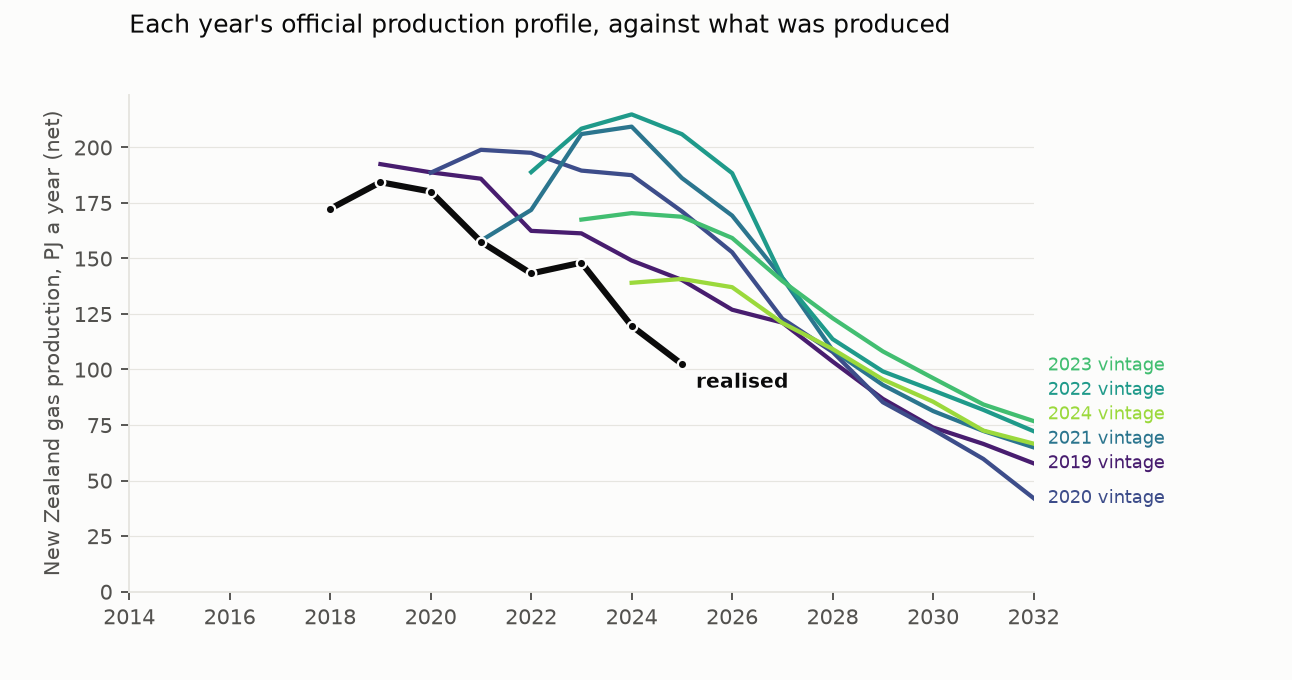
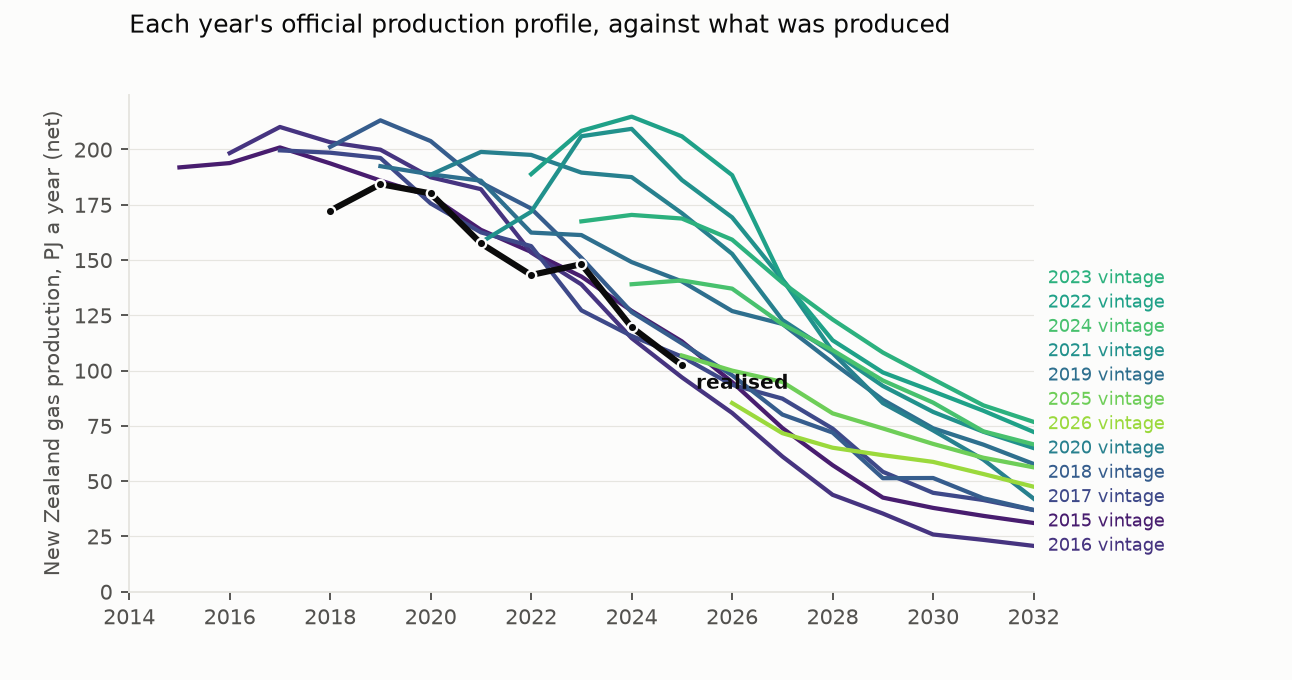
research-lab: gas figures regenerated on all vintages (F2 title corrected: error peaks at 1-2 years); REVIEW_QUEUE.md checkpoint at usage limit
Claude-Session: https://claude.ai/code/session_01F4XU94RLz4kFVSs5LcJjTK

diff --git a/research-lab/runs/energy-nz-gas-production-forecast-calibration/code/figures.py b/research-lab/runs/energy-nz-gas-production-forecast-calibration/code/figures.py
@@ -97,8 +97,8 @@ def main():
     ax.set_ylim(-22, None)
     ax.annotate("preregistered bars: +5% at 1 year, +15% at 3 years", (6.2, 2), fontsize=7.2, color=INK2, ha="right")
     ax.set_xlabel("years ahead of the vintage"); ax.set_ylabel("forecast over realised, %")
-    ax.grid(axis="y", color=GRID, lw=0.5); ax.legend(frameon=False, fontsize=8, loc="upper left", bbox_to_anchor=(0.0, 1.0))
-    fig.suptitle("Gas production forecasts exceed what follows, and more so further out", x=0.1, ha="left",
+    ax.grid(axis="y", color=GRID, lw=0.5); ax.legend(frameon=False, fontsize=8, loc="upper right", bbox_to_anchor=(1.0, 1.0))
+    fig.suptitle("Gas production forecasts exceed what follows, most at one to two years ahead", x=0.1, ha="left",
                  fontsize=10.5, color=INK)
     fig.savefig(F / "F2_error_by_horizon.png", dpi=170); plt.close(fig)
     caption("F2_error_by_horizon", """Blue: the median over (vintage, field) pairs of the forecast-to-realised ratio on

diff --git a/research-lab/REVIEW_QUEUE.md b/research-lab/REVIEW_QUEUE.md
@@ -10,10 +10,10 @@ highest exposure first, so that if the limit is hit again the most consequential
 | study | draft commit | verdicts in the draft | review status |
 |---|---|---|---|
 | `energy-outage-major-event-day-ratchet` | 2b5cb6b | H1 Inconclusive, H2 Refuted, H3 Refuted | **published** 2026-10-21 (Refuted on H3; H2 only with the 2015 baseline; H1 Inconclusive) |
-| `ancestral-pacific-rainfall-gauge-circularity` | 0a73d80 | H1 Supported, H2 Refuted | **in review** (wave 2) |
-| `frontier-eaa-accessibility-natural-experiment` | 0c44d7a | H1 Supported, H2 Inconclusive, H3 not testable | not started |
-| `energy-nz-gas-production-forecast-calibration` | b53e197 | H1 Supported, H2 Inconclusive, H3 Supported | **in review** (wave 1) |
-| `movement-nz-ev-policy-discount-vs-ruc` | 60012cc | H1 Inconclusive, H2 Inconclusive | not started |
+| `ancestral-pacific-rainfall-gauge-circularity` | 0a73d80 | H1 Supported, H2 Refuted | **fix-first review returned; fixes not started** — drop 12 no-estimate stations (verdicts hold), recompute shares on reporting months, add missing outputs, flag Koumac |
+| `frontier-eaa-accessibility-natural-experiment` | 0c44d7a | H1 Supported, H2 Inconclusive, H3 not testable | **in review** (may have been cut off by the usage limit; resume the same reviewer) |
+| `energy-nz-gas-production-forecast-calibration` | b53e197 | H1 Supported, H2 Inconclusive, H3 Supported | **fix-first review returned; revision half done** — all 13 vintages fetched, parser and analysis fixed and re-run (b63d203 onward); plan §5 validations now pass. Re-run gives H1 Supported only narrowly (m(3) clears +15% by 0.1 pt; fragile across sensitivities; optimism peaks at 1–2 yrs and does not grow), H2 Inconclusive, H3 Supported; 2P revised down 107–233 PJ every year since 2022. **report.md still the old draft — do not publish.** Next: rewrite report, D2, HTML, confirmation pass to the same reviewer. |
+| `movement-nz-ev-policy-discount-vs-ruc` | 60012cc | H1 Inconclusive, H2 Inconclusive | **in review** (may have been cut off by the usage limit; resume the same reviewer) |
 | `auckland-nz-jade-water-value-calibration` | 96c8a7c | H1 Supported, H2 Refuted | **published** 2026-10-21 (H1 Supported; H2 Refuted but unreachable; reinterpreted) |
 
 ## Order to run them in
